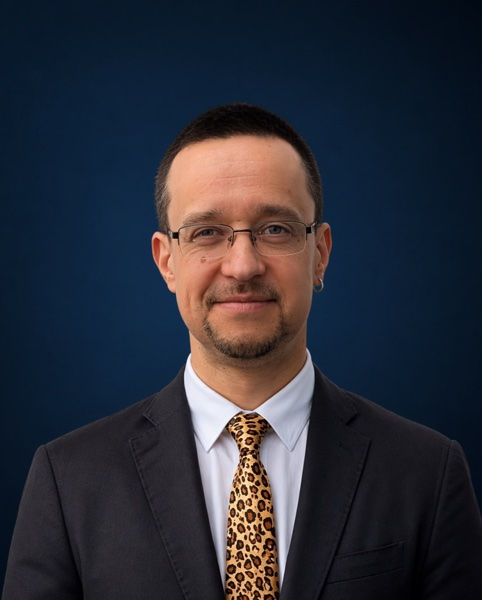
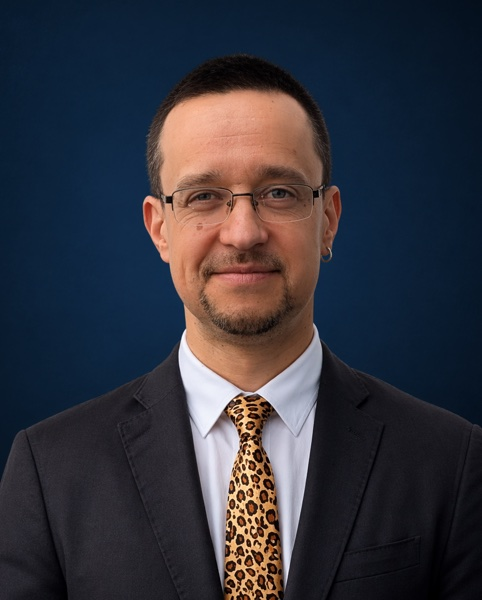
Split Youth Boot Camp into its own section with both moderators
Extracts Oleg's card from the Workshops grid into a new Youth Boot Camp
section (under Workshops) and adds Igor Petrov alongside him as the second
moderator. Both cards carry EN+DE flags, 11–14 / 15–18 age pills, bilingual
titles/descriptions, and facilitator bios. Also re-crops Igor's photo to
trim the empty space above his head so he sits at the same visual level as
Oleg when the cards render side by side.

Changed region(s): [[0.0, 0.09, 1.0, 1.0], [0.7158, 0.84, 0.7469, 0.9]]

diff --git a/index.html b/index.html
@@ -234,7 +234,24 @@
           </div>
         </div>
 
-        <!-- Workshop 4: Oleg Güntner — Youth Bootcamp -->
+      </div>
+      <div class="workshops__cta-wrap">
+        <a href="agenda.html#workshops" class="btn btn--outline" data-i18n="workshops.cta">View Full Programme</a>
+      </div>
+    </div>
+  </section>
+
+  <!-- ═══════════════════════════════════════════
+       YOUTH BOOT CAMP
+  ═══════════════════════════════════════════ -->
+  <section class="section section--light" id="youth-bootcamp">
+    <div class="container">
+      <span class="section__label" data-i18n="bootcamp.label">Youth Boot Camp</span>
+      <h2 class="section__title" data-i18n="bootcamp.title">Meet the Moderators</h2>
+      <p class="workshops__intro" data-i18n="bootcamp.intro">A hands-on speaking workshop for young people ages 11–18, run in English and German and split into two age groups so every participant learns alongside peers at a similar level.</p>
+      <div class="workshop-grid workshop-grid--centered">
+
+        <!-- Moderator 1: Oleg Güntner -->
         <div class="workshop-card workshop-card--bootcamp">
           <div class="workshop-card__photo-wrap">
             <img src="images/workshop-oleg.jpg" alt="Oleg Güntner" class="workshop-card__photo" loading="lazy" />
@@ -260,9 +277,32 @@
           </div>
         </div>
 
-      </div>
-      <div class="workshops__cta-wrap">
-        <a href="agenda.html#workshops" class="btn btn--outline" data-i18n="workshops.cta">View Full Programme</a>
+        <!-- Moderator 2: Igor Petrov -->
+        <div class="workshop-card workshop-card--bootcamp">
+          <div class="workshop-card__photo-wrap">
+            <img src="images/workshop-igor.jpg" alt="Igor Petrov" class="workshop-card__photo" loading="lazy" />
+          </div>
+          <div class="workshop-card__body">
+            <h3 class="workshop-card__name">Igor Petrov</h3>
+            <div class="workshop-card__lang-row">
+              <span class="workshop-card__lang">EN</span>
+              <span class="workshop-card__lang-flag"><img src="https://flagcdn.com/20x15/gb.png" alt="EN" class="lang-flag-img--card"></span>
+              <span class="workshop-card__lang">DE</span>
+              <span class="workshop-card__lang-flag"><img src="https://flagcdn.com/20x15/de.png" alt="DE" class="lang-flag-img--card"></span>
+            </div>
+            <p class="workshop-card__title" data-i18n="bootcamp.igor.title">Speak Confidently – Position Yourself Clearly</p>
+            <div class="workshop-card__ages-row" aria-label="Age groups">
+              <span class="workshop-card__age-pill" data-i18n="bootcamp.igor.ages1">Ages 11–14</span>
+              <span class="workshop-card__age-pill" data-i18n="bootcamp.igor.ages2">Ages 15–18</span>
+            </div>
+            <p class="workshop-card__desc" data-i18n="bootcamp.igor.desc">Learn simple techniques to respond spontaneously to questions and statements. With clear structures you'll practise expressing yourself with confidence and arguing persuasively.</p>
+            <details class="workshop-card__bio-toggle">
+              <summary data-i18n="bootcamp.igor.bioToggle">About the facilitator</summary>
+              <p class="workshop-card__bio" data-i18n="bootcamp.igor.bio">Igor Petrov has 20+ years of experience in media technology, spanning engineering and sales, with a focus on software for live news production. Trained as an audio engineer, he combines technical expertise with creativity. In Munich, he leads a Russian-speaking community and organises regular events. He is also a musician, sports enthusiast, and father of two, and a certified NLP Practitioner.</p>
+            </details>
+          </div>
+        </div>
+
       </div>
     </div>
   </section>

diff --git a/js/main.js b/js/main.js
@@ -124,6 +124,16 @@ const i18n = {
     'workshops.4.bio':   'Oleg Güntner has spent 25 years at BMW, currently as a manager responsible for prototype part quality in development. A certified trainer for "The 7 Habits of Highly Effective People" and a coach for leadership and personal development. A Toastmaster since 2012 and currently President of Munich Media Speakers. He holds degrees in Industrial Engineering and is an NLP Master.',
     'nav.workshops':     'Workshops',
 
+    'bootcamp.label':   'Youth Boot Camp',
+    'bootcamp.title':   'Meet the Moderators',
+    'bootcamp.intro':   'A hands-on speaking workshop for young people ages 11–18, run in English and German and split into two age groups so every participant learns alongside peers at a similar level.',
+    'bootcamp.igor.title':     'Speak Confidently – Position Yourself Clearly',
+    'bootcamp.igor.ages1':     'Ages 11–14',
+    'bootcamp.igor.ages2':     'Ages 15–18',
+    'bootcamp.igor.desc':      'Learn simple techniques to respond spontaneously to questions and statements. With clear structures you\'ll practise expressing yourself with confidence and arguing persuasively.',
+    'bootcamp.igor.bioToggle': 'About the facilitator',
+    'bootcamp.igor.bio':       'Igor Petrov has 20+ years of experience in media technology, spanning engineering and sales, with a focus on software for live news production. Trained as an audio engineer, he combines technical expertise with creativity. In Munich, he leads a Russian-speaking community and organises regular events. He is also a musician, sports enthusiast, and father of two, and a certified NLP Practitioner.',
+
     'cc.label':         'Contest Chairs',
     'cc.title':         'Meet the Contest Chairs',
     'cc.intro':         'Our experienced contest chairs ensure every competition runs smoothly and every speaker gets their moment to shine.',
@@ -262,6 +272,16 @@ const i18n = {
     'workshops.4.desc':  'Sprich mit Selbstvertrauen. Wachse über dich hinaus.',
     'workshops.4.bio':   'Oleg Güntner ist seit 25 Jahren bei BMW tätig, aktuell als Führungskraft mit Verantwortung für die Qualität der Prototypenteile in der Entwicklung. Trainer für „7 Wege zur Effektivität" und Coach für Führung und Persönlichkeitsentwicklung. Toastmaster seit 2012 und aktuell Präsident des Toastmaster-Clubs „Munich Media Speakers". Ausbildung: Wirtschaftsingenieur und NLP-Master.',
     'nav.workshops':     'Workshops',
+
+    'bootcamp.label':   'Jugend-Bootcamp',
+    'bootcamp.title':   'Unsere Moderatoren',
+    'bootcamp.intro':   'Ein praxisorientierter Rede-Workshop für junge Menschen von 11 bis 18 Jahren, in Deutsch und Englisch und in zwei Altersgruppen aufgeteilt, damit alle Teilnehmenden mit Gleichaltrigen auf ähnlichem Niveau lernen.',
+    'bootcamp.igor.title':     'Souverän sprechen – klar positionieren',
+    'bootcamp.igor.ages1':     'Alter 11–14',
+    'bootcamp.igor.ages2':     'Alter 15–18',
+    'bootcamp.igor.desc':      'Lerne einfache Techniken, um spontan auf Fragen und Thesen zu reagieren. Mit klaren Strukturen übst du, dich sicher auszudrücken und überzeugend zu argumentieren.',
+    'bootcamp.igor.bioToggle': 'Über den Referenten',
+    'bootcamp.igor.bio':       'Igor Petrov bringt über 20 Jahre Erfahrung in der Medientechnik mit — von Engineering bis Vertrieb, mit Schwerpunkt auf Software für die Live-Nachrichtenproduktion. Als ausgebildeter Tontechniker verbindet er technisches Know-how mit Kreativität. In München leitet er eine russischsprachige Community und organisiert regelmäßig Veranstaltungen. Er ist außerdem Musiker, Sportler und Vater von zwei Kindern sowie zertifizierter NLP-Practitioner.',
 
     'cc.label':         'Wettbewerbsleitung',
     'cc.title':         'Unsere Wettbewerbsleiter',
